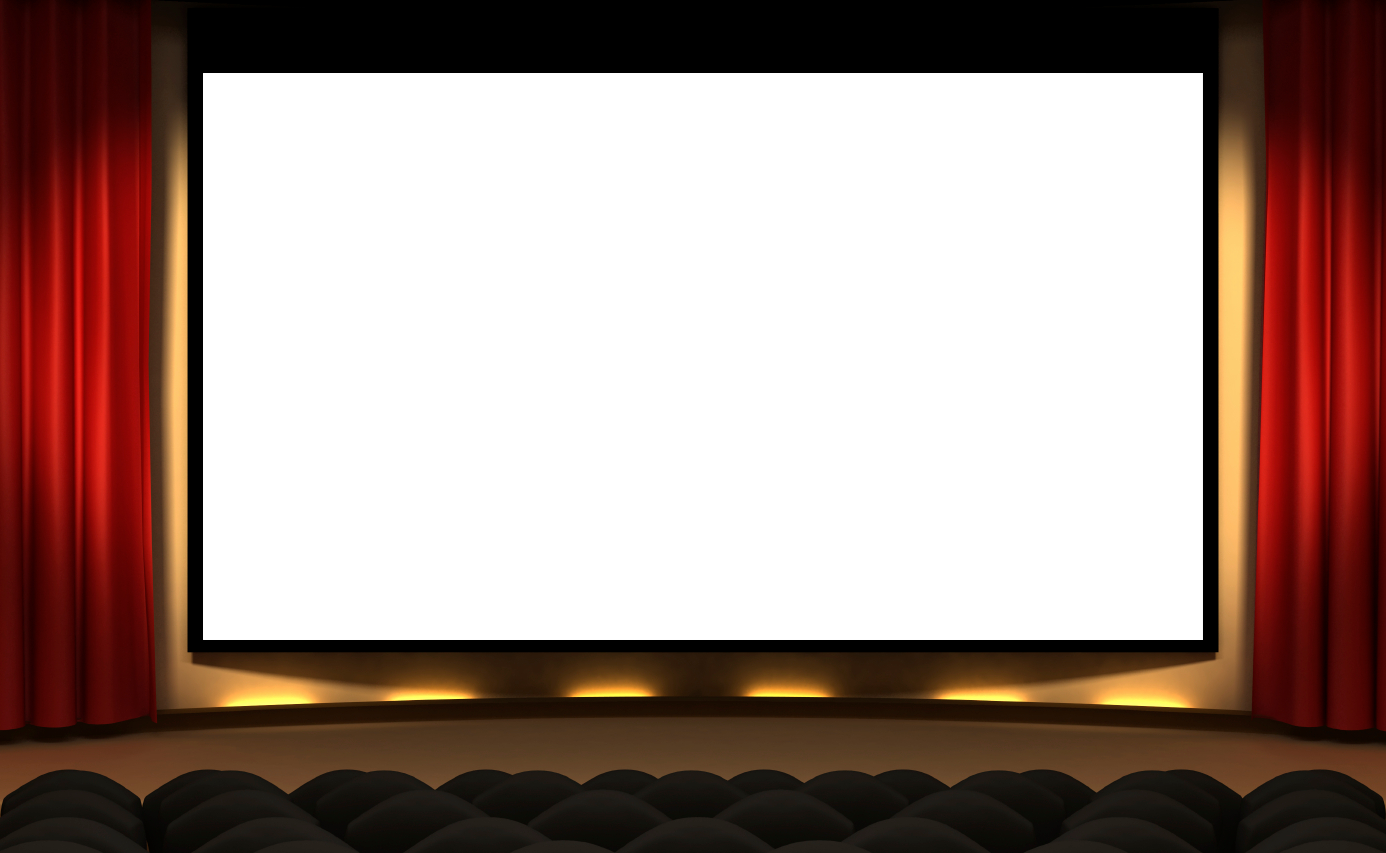
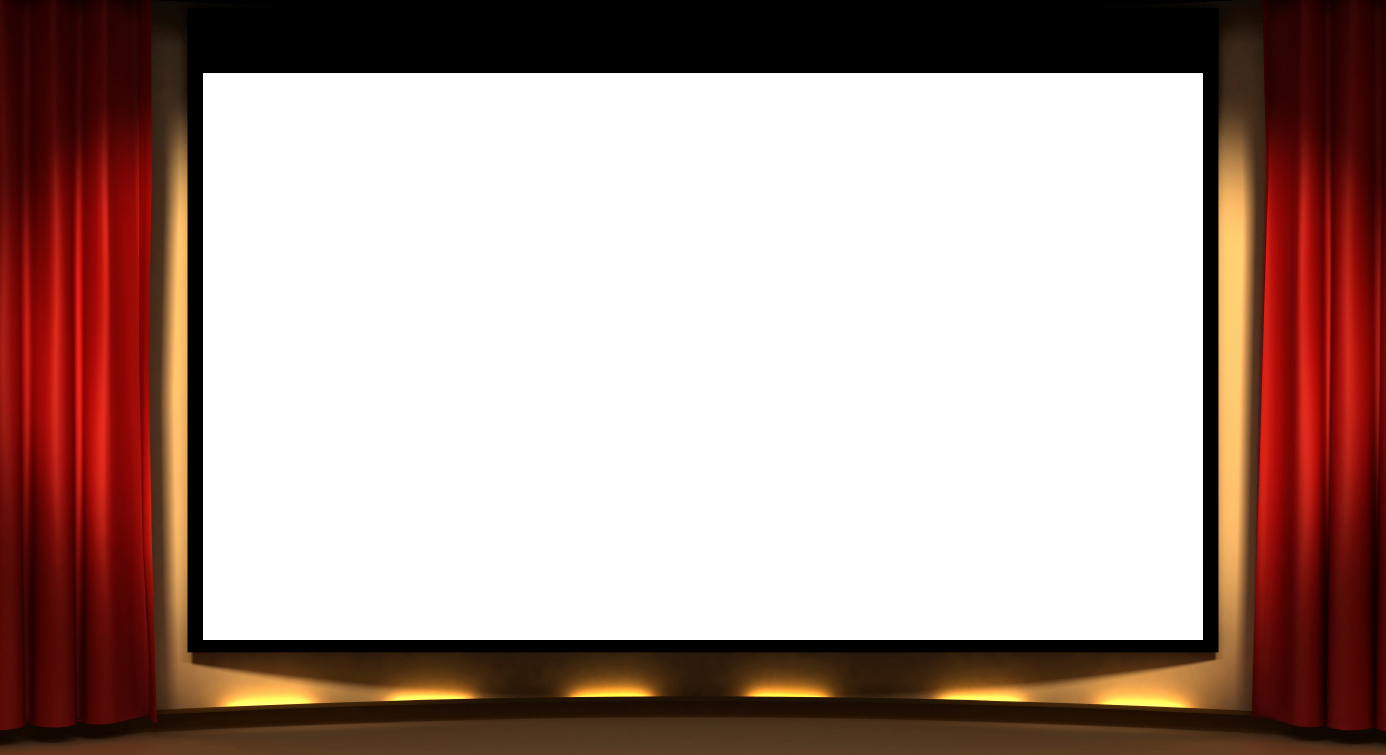
commit

diff --git a/src/client/src/Components/InFlightService/Subcomponents/MoviesComponent.jsx b/src/client/src/Components/InFlightService/Subcomponents/MoviesComponent.jsx
@@ -1,12 +1,13 @@
 import React, {Component} from 'react';
+import Card from 'react-bootstrap/Card'
+import baseImage from '../../../Images/InFlightService/Movies/cinema.png'
 
 class MoviesComponent extends Component {
 
     constructor(props) {
         super(props);
 
-        this.state = {
-        }
+        this.state = {}
 
     }
 
@@ -16,23 +17,26 @@ class MoviesComponent extends Component {
     //frame details:
     // l x w in pixels: 1386 x 853
     // Movie Platform: topLeft: (199, 70) bottomRight: (1206,643) => 1007 x 573
-
+    /*
+                        <iframe
+                            src="https://www.youtube.com/embed/E7wJTI-1dvQ"
+                            frameBorder="0"
+                            allow="autoplay; encrypted-media"
+                            allowFullScreen
+                            title="video"
+                        />
+    */
     render() {
         return (
             <div>
+                <Card style={{width:"80%", height:"80%"}}>
+                    <Card.Img src= {baseImage} alt="Card Image"/>
+                    <Card.ImgOverlay>
 
-                <div>
-                    <iframe
-                        src="https://www.youtube.com/embed/E7wJTI-1dvQ"
-                        frameBorder="0"
-                        allow="autoplay; encrypted-media"
-                        allowFullScreen
-                        title="video"
-                    />
-                    {" "}
-                </div>
-
+                    </Card.ImgOverlay>
+                </Card>
             </div>
+
         );
     }
 }

diff --git a/src/client/src/Components/InFlightService/InFlightServiceComponent.jsx b/src/client/src/Components/InFlightService/InFlightServiceComponent.jsx
@@ -12,7 +12,7 @@ import SafetyInstructionsComponent from "./Subcomponents/SafetyInstructionsCompo
 import Swal from "sweetalert2";
 
 class InFlightServiceComponent extends Component {
-    //TODO: potentially add music effects later
+    //potentially add music effects later
     constructor(props) {
         super(props);
 
@@ -36,7 +36,7 @@ class InFlightServiceComponent extends Component {
             showFlightInstructions: false,
             serviceImageUrl: this.state.serviceImageUrl
         });
-        const y = document.getElementById('body').getBoundingClientRect().top + window.pageYOffset - 200;
+        const y = document.getElementById('body').getBoundingClientRect().top + window.pageYOffset - 300;
         setTimeout(() => {window.scrollTo({top: y, behavior: 'smooth'})}, 300);
     }
 
@@ -60,7 +60,7 @@ class InFlightServiceComponent extends Component {
             showFlightInstructions: true,
             serviceImageUrl: this.state.serviceImageUrl
         });
-        const y = document.getElementById('body').getBoundingClientRect().top + window.pageYOffset - 200;
+        const y = document.getElementById('body').getBoundingClientRect().top + window.pageYOffset - 300;
         setTimeout(() => {window.scrollTo({top: y, behavior: 'smooth'})}, 300);
     }
 
